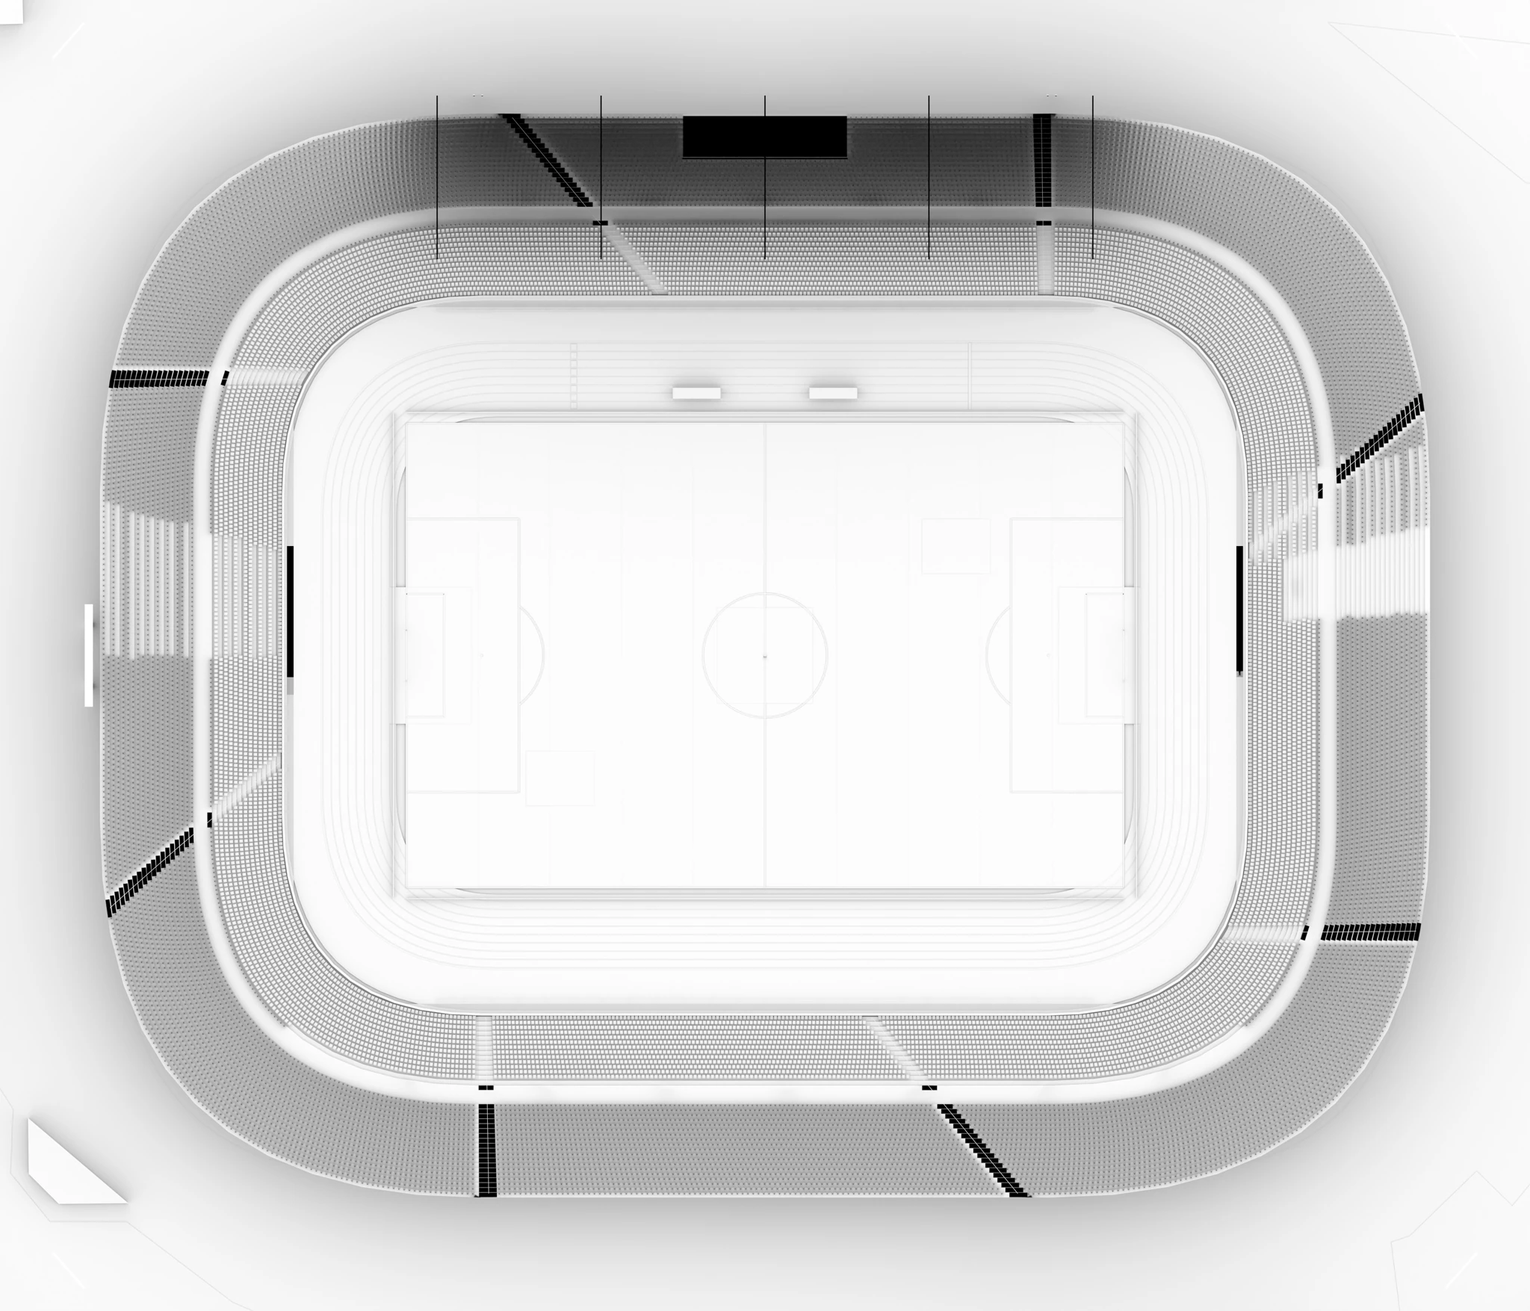
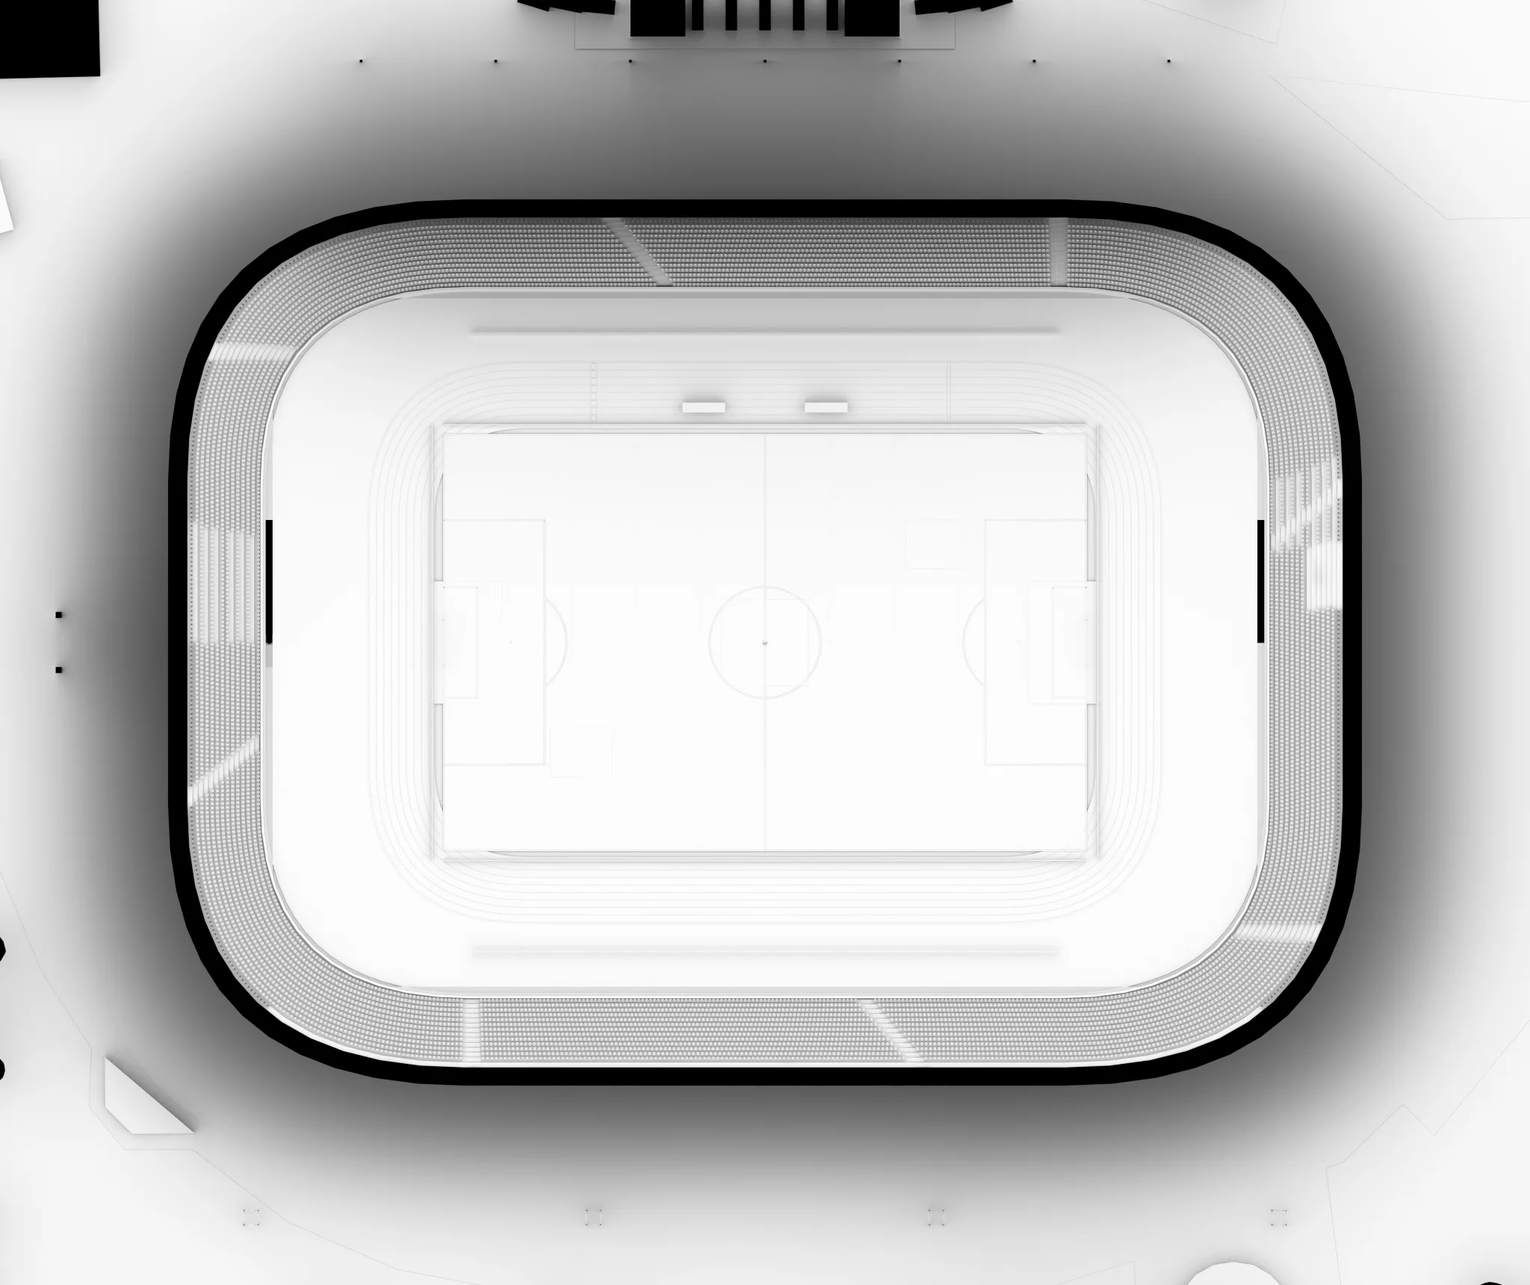
Увеличенная чаша 227×175 м и четыре восточные мачты на сайте, перезапечены затенение и вечерний свет

diff --git a/outputs/stadium-pilot/src/main.js b/outputs/stadium-pilot/src/main.js
@@ -133,7 +133,7 @@ if (!lowPower) {
   };
   grass.normalMap = grassDetail('grass-normal.webp');
   grass.normalScale.set(0.7, 0.7);
-  grass.roughnessMap = grassDetail('grass-rough.webp');
+  // Карта шероховатости не используется: на газоне она давала блики от прожекторов вечером.
 }
 // Бетон: Poly Haven «Damaged Concrete Floor» (CC0) — цвет, нормали и шероховатость; на телефонах только цвет.
 const textureLoader = new THREE.TextureLoader();
@@ -163,7 +163,7 @@ const aoUniforms = {
   uAoMap: { value: aoTexture },
   uLightMap: { value: lightTexture },
   uLightAmount: { value: 0 },
-  uAoRect: { value: new THREE.Vector4(-112, -96, 224, 192) },
+  uAoRect: { value: new THREE.Vector4(-125, -105, 250, 210) },
   uAoStrength: { value: 0.6 },
 };
 function weather(surface, { stains = true, ao = 0.6 } = {}) {
@@ -344,22 +344,29 @@ function box(width, height, depth, x, y, z, surface) {
   return mesh;
 }
 
-function roundedPath(halfWidth, halfDepth, radius, path = new THREE.Path()) {
-  path.moveTo(-halfWidth + radius, -halfDepth);
-  path.lineTo(halfWidth - radius, -halfDepth);
-  path.quadraticCurveTo(halfWidth, -halfDepth, halfWidth, -halfDepth + radius);
-  path.lineTo(halfWidth, halfDepth - radius);
-  path.quadraticCurveTo(halfWidth, halfDepth, halfWidth - radius, halfDepth);
-  path.lineTo(-halfWidth + radius, halfDepth);
-  path.quadraticCurveTo(-halfWidth, halfDepth, -halfWidth, halfDepth - radius);
-  path.lineTo(-halfWidth, -halfDepth + radius);
-  path.quadraticCurveTo(-halfWidth, -halfDepth, -halfWidth + radius, -halfDepth);
+// Чаша увеличена до 227 × 175 м (по данным OpenStreetMap): трибуны растягиваются по x и z, поле и дорожки остаются прежними,
+// кресла, ступени и высоты не меняются. Тот же масштаб использует work/blender/create_scaled_bowl.py.
+const bowlOuterHalfX = 71.6 + 33 * 0.72 + 2;
+const bowlOuterHalfZ = 53.6 + 33 * 0.72 + 2;
+const bowlScaleX = 227 / (2 * bowlOuterHalfX);
+const bowlScaleZ = 175 / (2 * bowlOuterHalfZ);
+function roundedPath(halfWidth, halfDepth, radius, path = new THREE.Path(), sx = 1, sz = 1) {
+  path.moveTo((-halfWidth + radius) * sx, -halfDepth * sz);
+  path.lineTo((halfWidth - radius) * sx, -halfDepth * sz);
+  path.quadraticCurveTo(halfWidth * sx, -halfDepth * sz, halfWidth * sx, (-halfDepth + radius) * sz);
+  path.lineTo(halfWidth * sx, (halfDepth - radius) * sz);
+  path.quadraticCurveTo(halfWidth * sx, halfDepth * sz, (halfWidth - radius) * sx, halfDepth * sz);
+  path.lineTo((-halfWidth + radius) * sx, halfDepth * sz);
+  path.quadraticCurveTo(-halfWidth * sx, halfDepth * sz, -halfWidth * sx, (halfDepth - radius) * sz);
+  path.lineTo(-halfWidth * sx, (-halfDepth + radius) * sz);
+  path.quadraticCurveTo(-halfWidth * sx, -halfDepth * sz, (-halfWidth + radius) * sx, -halfDepth * sz);
   return path;
 }
 
-function ring(outerWidth, outerDepth, innerWidth, innerDepth, radius, height, surface, thickness = 0) {
-  const shape = roundedPath(outerWidth, outerDepth, radius, new THREE.Shape());
-  shape.holes.push(roundedPath(innerWidth, innerDepth, Math.max(radius - (outerWidth - innerWidth), 1)));
+// scale: 0 — без изменений, 1 — увеличивается только внешний контур, 2 — внешний и внутренний (трибуны и барьер).
+function ring(outerWidth, outerDepth, innerWidth, innerDepth, radius, height, surface, thickness = 0, scale = 0) {
+  const shape = roundedPath(outerWidth, outerDepth, radius, new THREE.Shape(), scale >= 1 ? bowlScaleX : 1, scale >= 1 ? bowlScaleZ : 1);
+  shape.holes.push(roundedPath(innerWidth, innerDepth, Math.max(radius - (outerWidth - innerWidth), 1), new THREE.Path(), scale === 2 ? bowlScaleX : 1, scale === 2 ? bowlScaleZ : 1));
   const geometry = thickness
     ? new THREE.ExtrudeGeometry(shape, { depth: thickness, bevelEnabled: false, curveSegments: 12 })
     : new THREE.ShapeGeometry(shape, 16);
@@ -389,7 +396,7 @@ box(850, 0.5, 850, 0, -0.5, 0, groundMaterial);
   contactGradient.addColorStop(1, 'rgba(20,28,22,0)');
   contactContext.fillStyle = contactGradient;
   contactContext.fillRect(-128, -156, 256, 312);
-  const contact = new THREE.Mesh(new THREE.PlaneGeometry(330, 270), new THREE.MeshBasicMaterial({ map: new THREE.CanvasTexture(contactCanvas), transparent: true, depthWrite: false }));
+  const contact = new THREE.Mesh(new THREE.PlaneGeometry(330 * bowlScaleX, 270 * bowlScaleZ), new THREE.MeshBasicMaterial({ map: new THREE.CanvasTexture(contactCanvas), transparent: true, depthWrite: false }));
   contact.rotation.x = -Math.PI / 2;
   contact.position.y = -0.2;
   scene.add(contact);
@@ -542,12 +549,12 @@ for (const x of [-10, 10]) {
   }
   roofPanel.castShadow = true;
 }
-ring(70, 52, 54, 35, 29, 0.02, darkConcrete);
+ring(70, 52, 54, 35, 29, 0.02, darkConcrete, 0, 1);
 ring(65, 46, 54, 35, 26, 0.04, track);
 for (let i = 0; i <= 8; i += 1) {
   ring(55 + i * 1.22, 36 + i * 1.22, 54.94 + i * 1.22, 35.94 + i * 1.22, 16 + i * 1.22, 0.07, white);
 }
-ring(94, 76, 69, 51, 38, 0.02, darkConcrete);
+ring(94, 76, 69, 51, 38, 0.02, darkConcrete, 0, 2);
 // Номера дорожек и финишная линия на западной прямой (расположение ориентировочное).
 for (let lane = 0; lane < 8; lane += 1) {
   const numberCanvas = document.createElement('canvas');
@@ -587,9 +594,9 @@ scene.add(finish);
 
 
 // Барьер перед первым рядом: бетонный парапет и тонкая светодиодная лента (размеры ориентировочные).
-ring(70.7, 52.7, 70.4, 52.4, 29.3, 0.95, darkConcrete, 0.95);
-ring(70.4, 52.4, 70.38, 52.38, 29.0, 0.4, new THREE.MeshBasicMaterial({ color: '#4c9bff' }), 0.07);
-ring(70.72, 52.72, 70.4, 52.4, 29.32, 1.0, steel, 0.05);
+ring(70.7, 52.7, 70.4, 52.4, 29.3, 0.95, darkConcrete, 0.95, 2);
+ring(70.4, 52.4, 70.38, 52.38, 29.0, 0.4, new THREE.MeshBasicMaterial({ color: '#4c9bff' }), 0.07, 2);
+ring(70.72, 52.72, 70.4, 52.4, 29.32, 1.0, steel, 0.05, 2);
 
 const rows = 34;
 const seatsPerRow = 800;
@@ -693,9 +700,9 @@ let greenCount = 0;
 for (let row = 0; row < rows; row += 1) {
   const step = row * 0.72 + (row >= 15 ? 2 : 0);
   const y = 0.45 + row * 0.37;
-  if (row === 15) ring(83.68, 65.68, 81.68, 63.68, 41.58, y - 0.37, darkConcrete, 0.38);
-  standLevels.push(ring(71.6 + step, 53.6 + step, 70.88 + step, 52.88 + step, 29.5 + step, y, row % 2 ? concrete : darkConcrete, 0.38));
-  const path = roundedPath(71 + step, 53 + step, 29 + step);
+  if (row === 15) ring(83.68, 65.68, 81.68, 63.68, 41.58, y - 0.37, darkConcrete, 0.38, 2);
+  standLevels.push(ring(71.6 + step, 53.6 + step, 70.88 + step, 52.88 + step, 29.5 + step, y, row % 2 ? concrete : darkConcrete, 0.38, 2));
+  const path = roundedPath(71 + step, 53 + step, 29 + step, new THREE.Path(), bowlScaleX, bowlScaleZ);
   const points = path.getSpacedPoints(seatsPerRow);
   for (let aisle = 0; aisle < aisles.length; aisle += 1) {
     const first = points[aisle * 100];
@@ -717,11 +724,11 @@ for (let row = 0; row < rows; row += 1) {
     helper.position.set(point.x, y + 0.27, -point.y);
     helper.rotation.set(0, Math.atan2(next.y - point.y, next.x - point.x), 0);
     helper.updateMatrix();
-    const stand = Math.abs(point.x) / (71 + step) > Math.abs(point.y) / (53 + step)
+    const stand = Math.abs(point.x) / ((71 + step) * bowlScaleX) > Math.abs(point.y) / ((53 + step) * bowlScaleZ)
       ? (point.x > 0 ? 'north' : 'south')
       : (point.y > 0 ? 'west' : 'east');
     if (stand === 'east' && (row === 13 || row === 14)) continue;
-    if (stand === 'west' && Math.abs(point.x) < 12.5 && point.y > 72.5) continue;
+    if (stand === 'west' && Math.abs(point.x) < 12.5 * bowlScaleX && point.y > 72.5 * bowlScaleZ) continue;
     const seat = { stand, row: row + 1, position: helper.position.clone(), matrix: helper.matrix.clone() };
     seatHits.setMatrixAt(seats.length, helper.matrix);
     seats.push(seat);
@@ -1003,7 +1010,7 @@ modelLoader.load(asset('stadium-roof.glb'), (model) => {
 }, undefined, (error) => console.error('Не удалось загрузить модель навеса:', error));
 const roofLights = new THREE.InstancedMesh(new THREE.BoxGeometry(0.75, 0.16, 0.25), new THREE.MeshStandardMaterial({ color: '#f5f2df', emissive: '#e5e0c7', emissiveIntensity: 0.45 }), 33);
 for (let i = 0; i < 33; i += 1) {
-  helper.position.set(-48 + i * 3, 17.45, -58.3);
+  helper.position.set(-48 + i * 3, 18.3, -56.4);
   helper.rotation.set(0, 0, 0);
   helper.updateMatrix();
   roofLights.setMatrixAt(i, helper.matrix);
@@ -1026,8 +1033,8 @@ for (const x of [-52.5, 52.5]) {
 }
 const scoreboardFrame = material('#b7bcb7');
 const scoreboardScreen = material('#151d1d');
-for (const z of [-4.5, 4.5]) box(1, 10, 1, -99, 5, z, scoreboardFrame);
-box(1.2, 7.6, 15, -99, 13.8, 0, scoreboardFrame);
+for (const z of [-4.5, 4.5]) box(1, 10, 1, -99 * bowlScaleX, 5, z, scoreboardFrame);
+box(1.2, 7.6, 15, -99 * bowlScaleX, 13.8, 0, scoreboardFrame);
 const scoreCanvas = document.createElement('canvas');
 scoreCanvas.width = 2048;
 scoreCanvas.height = 960;
@@ -1055,45 +1062,32 @@ scoreTexture.colorSpace = THREE.SRGBColorSpace;
 scoreTexture.anisotropy = 8;
 const scoreLit = new THREE.MeshStandardMaterial({ map: scoreTexture, emissive: '#ffffff', emissiveMap: scoreTexture, emissiveIntensity: 1.2, roughness: 0.35 });
 // Тёмная рамка вокруг экрана табло.
-box(0.04, 7.2, 14.5, -98.38, 13.8, 0, scoreboardScreen);
+box(0.04, 7.2, 14.5, -99 * bowlScaleX + 0.62, 13.8, 0, scoreboardScreen);
 const scoreScreen = new THREE.Mesh(new THREE.BoxGeometry(0.08, 6.4, 13.7), [scoreLit, scoreboardScreen, scoreboardScreen, scoreboardScreen, scoreboardScreen, scoreboardScreen]);
-scoreScreen.position.set(-98.36, 13.8, 0);
+scoreScreen.position.set(-99 * bowlScaleX + 0.64, 13.8, 0);
 scene.add(scoreScreen);
-const towerLines = [];
-const floodlights = new THREE.InstancedMesh(new THREE.BoxGeometry(0.65, 0.5, 0.22), new THREE.MeshStandardMaterial({ color: '#ecede4', emissive: '#fff3d0', emissiveIntensity: 0.6 }), 84);
+// Четыре мачты освещения по 40 м на восточном краю (модель из work/blender/create_floodlight_masts.py).
+// Светящиеся панели ламп (вечером ярче) повторяют положение ламп модели.
+const mastXs = [-84, -28, 28, 84];
+const mastZ = 94;
+modelLoader.load(asset('floodlight-masts.glb'), (model) => {
+  model.scene.traverse((object) => { if (object.isMesh) object.castShadow = true; });
+  scene.add(model.scene);
+  renderer.shadowMap.needsUpdate = true;
+}, undefined, (error) => console.error('Не удалось загрузить мачты:', error));
+const floodlights = new THREE.InstancedMesh(new THREE.BoxGeometry(0.5, 0.62, 0.05), new THREE.MeshStandardMaterial({ color: '#ecede4', emissive: '#fff3d0', emissiveIntensity: 0.6 }), mastXs.length * 24);
 let lightIndex = 0;
-for (const x of [-102, 102]) {
-  for (const z of [-90, 90]) {
-    for (const dx of [-1, 1]) {
-      for (const dz of [-1, 1]) {
-        towerLines.push(x + dx * 1.4, 0, z + dz * 1.4, x + dx * 0.7, 30, z + dz * 0.7);
-      }
-    }
-    for (let y = 0; y < 30; y += 3) {
-      const lower = 1.4 - y * 0.7 / 30;
-      const upper = 1.4 - (y + 3) * 0.7 / 30;
-      for (const side of [-1, 1]) {
-        towerLines.push(x + side * lower, y, z - lower, x + side * upper, y + 3, z + upper);
-        towerLines.push(x - lower, y, z + side * lower, x + upper, y + 3, z + side * upper);
-      }
-    }
-    const angle = Math.atan2(-x, -z);
-    const panel = box(7, 3.2, 0.35, x, 31.2, z, steel);
-    panel.rotation.y = angle;
+for (const x of mastXs) {
+  for (let column = 0; column < 8; column += 1) {
     for (let row = 0; row < 3; row += 1) {
-      for (let column = 0; column < 7; column += 1) {
-        const along = (column - 3) * 0.85;
-        helper.position.set(x + Math.cos(angle) * along + Math.sin(angle) * 0.3, 30.35 + row * 0.85, z - Math.sin(angle) * along + Math.cos(angle) * 0.3);
-        helper.rotation.set(0, angle, 0);
-        helper.updateMatrix();
-        floodlights.setMatrixAt(lightIndex++, helper.matrix);
-      }
+      helper.position.set(x - 2.8 + column * 0.8, 37.3 + row, mastZ - 0.2);
+      helper.rotation.set(0, 0, 0);
+      helper.updateMatrix();
+      floodlights.setMatrixAt(lightIndex++, helper.matrix);
     }
   }
 }
-const towerGeometry = new THREE.BufferGeometry();
-towerGeometry.setAttribute('position', new THREE.Float32BufferAttribute(towerLines, 3));
-scene.add(new THREE.LineSegments(towerGeometry, new THREE.LineBasicMaterial({ color: '#b7c3c0' })), floodlights);
+scene.add(floodlights);
 floodlights.instanceMatrix.needsUpdate = true;
 for (const z of [-50.5, 50.5]) {
   for (let x = -48; x <= 48; x += 4) box(0.06, 1.1, 0.06, x, 0.7, z, steel);
@@ -1125,11 +1119,11 @@ for (const z of [-50.5, 50.5]) {
 }
 
 const views = {
-  overview: { label: 'Общий вид', position: [180, 155, 220] },
-  west: { label: 'Западная трибуна', position: [0, 12, 30], target: [0, 8, -70] },
-  east: { label: 'Восточная трибуна', position: [0, 27, -38], target: [0, 5, 70] },
-  north: { label: 'Северная трибуна', position: [-38, 27, 0], target: [82, 5, 0] },
-  south: { label: 'Южная трибуна', position: [38, 27, 0], target: [-82, 5, 0] },
+  overview: { label: 'Общий вид', position: [200, 170, 245] },
+  west: { label: 'Западная трибуна', position: [0, 12, 30], target: [0, 8, -70 * bowlScaleZ] },
+  east: { label: 'Восточная трибуна', position: [0, 27, -38], target: [0, 5, 70 * bowlScaleZ] },
+  north: { label: 'Северная трибуна', position: [-38, 27, 0], target: [82 * bowlScaleX, 5, 0] },
+  south: { label: 'Южная трибуна', position: [38, 27, 0], target: [-82 * bowlScaleX, 5, 0] },
 };
 let view = 'overview';
 let stage = 'stand';
@@ -1193,7 +1187,7 @@ function setView(name) {
   const target = name === 'overview' ? new THREE.Vector3(0, 4, 0) : new THREE.Vector3(...selected.target);
   const phone = window.innerWidth <= 700;
   // «Выбрать место»: камера плавно поднимается и смотрит на стадион почти строго сверху, чтобы были видны все сектора.
-  if (name === 'overview' && bookingOpen) moveCamera(new THREE.Vector3(0, phone ? 300 : 340, 46), target, phone ? 66 : 38, true, false, 1700);
+  if (name === 'overview' && bookingOpen) moveCamera(new THREE.Vector3(0, phone ? 380 : 440, 58), target, phone ? 66 : 38, true, false, 1700);
   else moveCamera(new THREE.Vector3(...selected.position), target, name === 'overview' ? (phone ? 66 : 38) : 50, name === 'overview');
   updateCameraFraming();
   updateSeatHighlights();
@@ -1992,10 +1986,10 @@ renderer.setAnimationLoop(() => {
   };
   // Прожекторы: четыре мачты по углам освещают поле и трибуны тёплым белым светом (только вечером, без теней).
   const fieldLights = [];
-  for (const x of [-102, 102]) {
-    for (const z of [-90, 90]) {
+  for (const x of mastXs) {
+    for (const z of [mastZ]) {
       const spot = new THREE.SpotLight('#fff1d6', 34000, 0, 0.62, 0.7, 2);
-      spot.position.set(x, 31, z);
+      spot.position.set(x, 38.5, z);
       spot.target.position.set(0, 0, 0);
       spot.visible = false;
       scene.add(spot, spot.target);
@@ -2051,7 +2045,7 @@ renderer.setAnimationLoop(() => {
     eveningMode = mode === 'evening';
     for (const spot of fieldLights) spot.visible = eveningMode;
     aoUniforms.uLightAmount.value = eveningMode ? 0.9 : 0;
-    for (const spot of fieldLights) spot.intensity = 7000;
+    for (const spot of fieldLights) spot.intensity = 2500;
     if (bloomPass) bloomPass.enabled = eveningMode;
     glow.visible = mode === 'evening';
     glow.material.opacity = mode === 'evening' ? 0.4 : 0;

diff --git a/outputs/stadium-pilot/README.md b/outputs/stadium-pilot/README.md
@@ -139,8 +139,10 @@ ffmpeg -i outputs/stadium-pilot/public/stadium-orbit-mobile.mp4 -an -c:v libvpx-
 
 HDR-небо в режиме качества (компьютеры): `sky-2k.hdr`, Poly Haven, Kloppenheim 05 Pure Sky 2k, CC0 — https://polyhaven.com/a/kloppenheim_05_puresky. На телефонах и в режиме `?quality=fast` остаётся лёгкий `sky.hdr` 1k.
 
-Фактура газона (нормали и шероховатость, компьютеры): ambientCG, Grass004, CC0 — https://ambientcg.com/view?id=Grass004. Исходники 1k лежат в `work/textures/grass004`.
+Фактура газона (нормали, компьютеры): ambientCG, Grass004, CC0 — https://ambientcg.com/view?id=Grass004. Исходники 1k лежат в `work/textures/grass004`.
 
 Вечерний свет: карта освещённости от четырёх прожекторов запечена в Blender Cycles (`work/blender/bake_floodlight_topdown.py`, вид сверху, те же границы, что у карты затенения) в `public/light-evening.webp`. Вечером она накладывается на бетон, дорожки, газон и землю по мировым координатам. Перезапекать вместе с картой затенения при изменении чаши, крыши или мачт: `Blender -b -P bake_floodlight_topdown.py -- --glb ../exports/stadium-scene.glb --out ../exports/light-top.png --px 2048 --samples 96 --power 1.2e6` (при необходимости `--bounds` и `--masts`).
 
 Скрипт вечернего света принимает полную сцену в формате GLB или Blender (`--glb` или `--blend`). Для будущей сцены с четырьмя восточными мачтами параметры пробного запекания вечернего света приведены в `work/stadium-geometry-handoff.md`. Текущая карта рассчитана для старых угловых мачт; менять её следует после обновления и повторного экспорта полной сцены.
+
+Увеличенная чаша: трибуны растянуты до 227 × 175 м (по данным OpenStreetMap) коэффициентами `bowlScaleX/bowlScaleZ` в `src/main.js`; поле, дорожки, кресла и высоты прежние, число мест и секторов не изменилось. Четыре мачты по 40 м стоят на восточном краю (`floodlight-masts.glb`), крыша только над западной трибуной (`stadium-roof.glb`). Карты затенения и вечернего света перезапечены для области x ∈ [-125, 125], z ∈ [-105, 105] (`--bounds -125 125 -105 105`; мачты `--masts "-84,94;-28,94;28,94;84,94" --mast-height 38.5`). Размеры, число рядов и положение мачт приблизительные.
